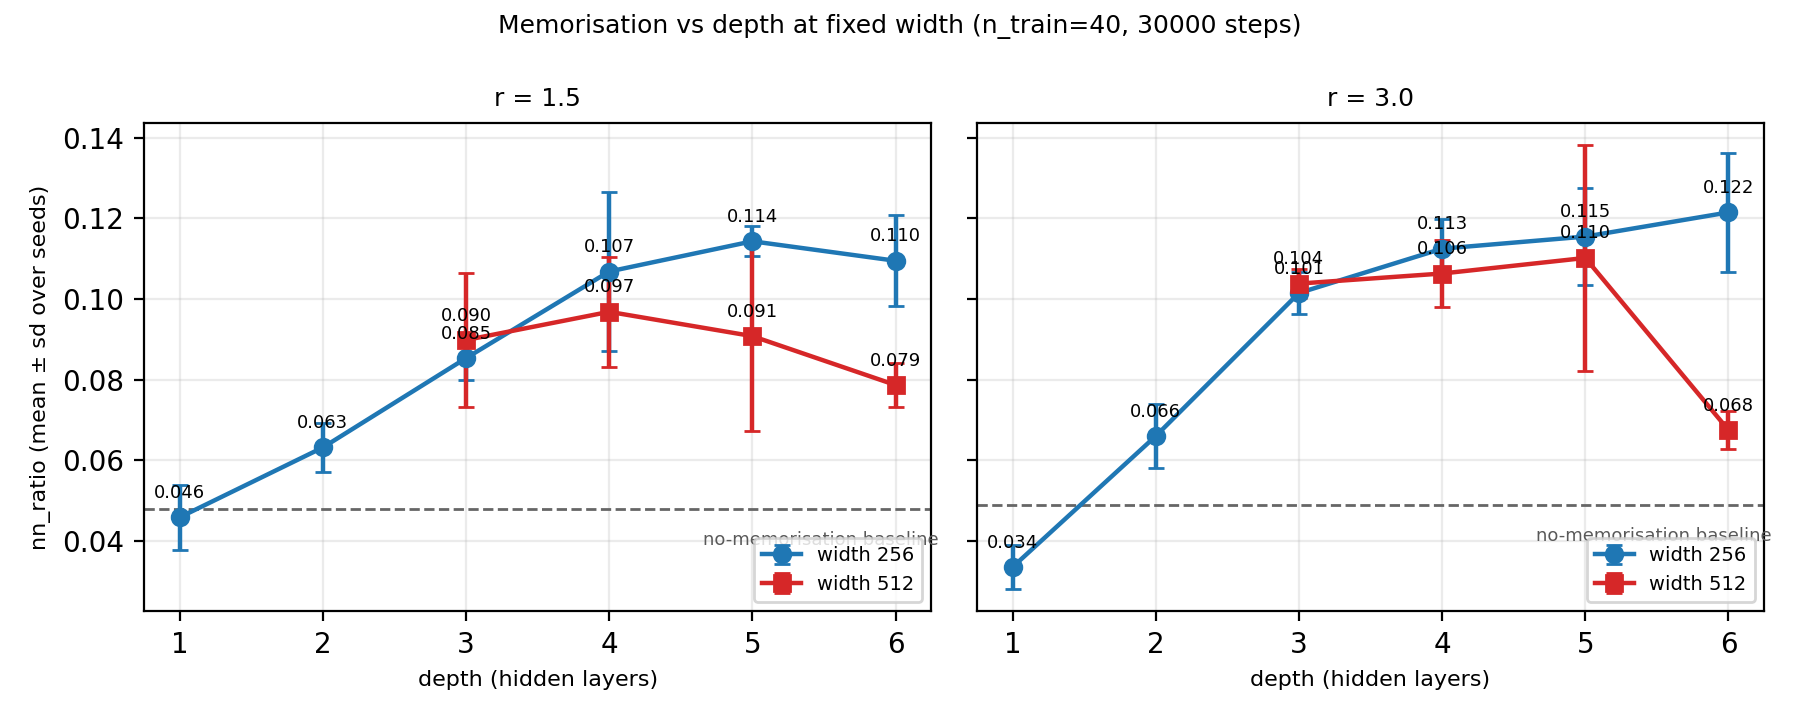
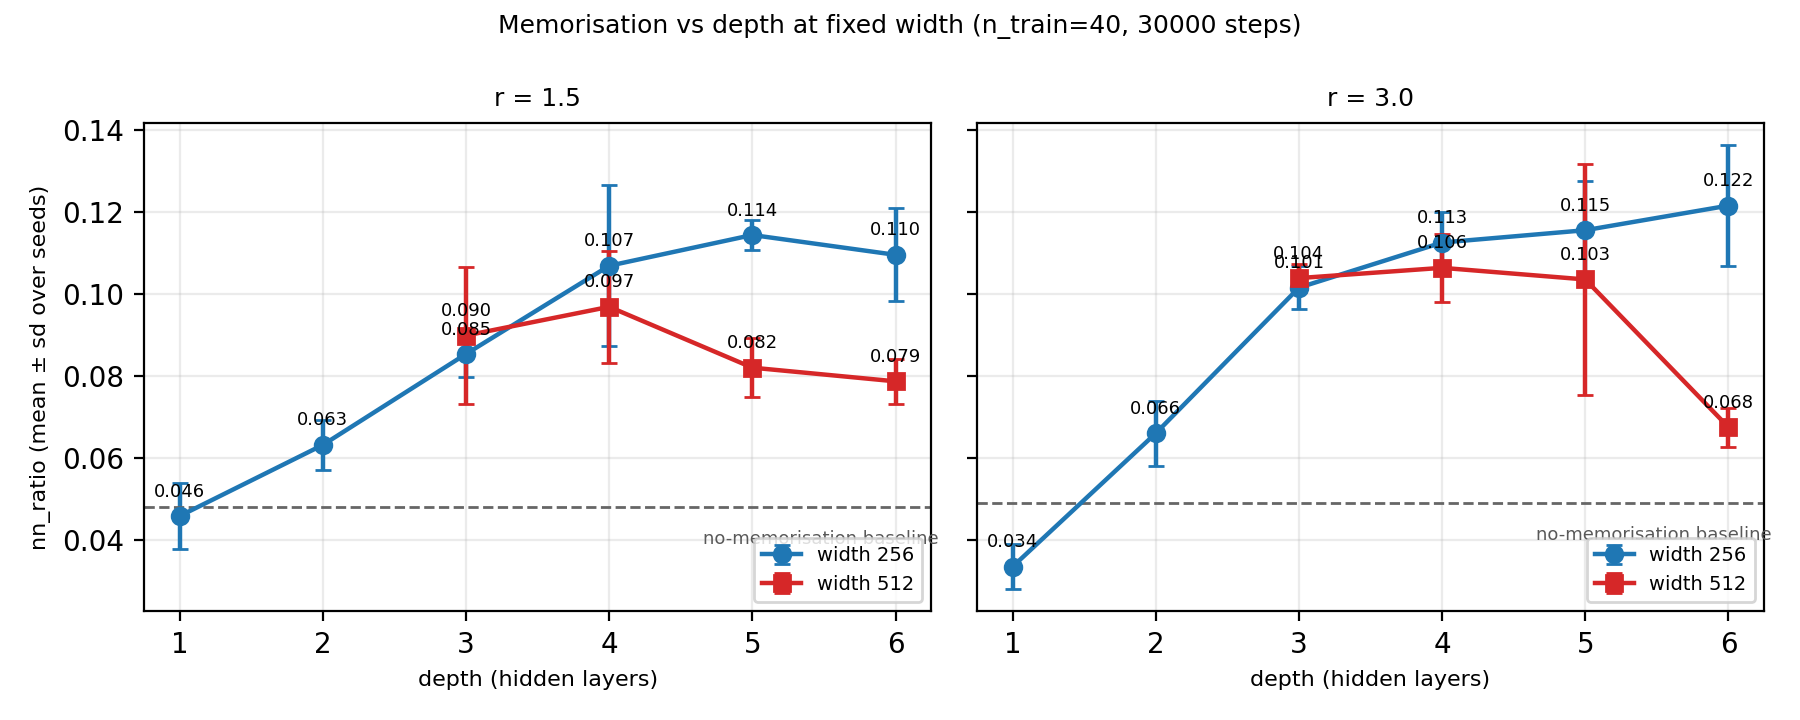
A: 深度 5/宽 512 改为种子 0-2（与 loss gap 逐点可比）
- table_depth_width.csv 与 figures/depth_width.png 里 (5,512) 只用 mainN40 的种子 0-2
- r=1.5: 0.090/0.097/0.082/0.079 (d3-d6)；r=3.0: 0.104/0.106/0.103/0.068
- 明确 d6 两指标同时回落；d5 只有 loss gap 下降，nn_ratio 在 r=3.0 持平

diff --git a/code/make_tables.py b/code/make_tables.py
@@ -111,8 +111,8 @@ def main():
     # 深度 × 宽度；宽度 512 的 depth5 用 mainN40 的 (5,512) 补齐
     dp = m[m.group == "depthsweep"][["radius", "depth", "width", "seed", "nn_ratio", "mmd",
                                      "mode_coverage"]]
-    fill = m[(m.tag == "mainN40") & (m.cap_idx == 4)][["radius", "depth", "width", "seed",
-                                                       "nn_ratio", "mmd", "mode_coverage"]]
+    fill = m[(m.tag == "mainN40") & (m.cap_idx == 4) & (m.seed <= 2)][
+        ["radius", "depth", "width", "seed", "nn_ratio", "mmd", "mode_coverage"]]
     fill = fill.assign(depth=5)
     dp = pd.concat([dp, fill], ignore_index=True).drop_duplicates(
         ["radius", "depth", "width", "seed"], keep="last")

diff --git a/code/make_depth_fig.py b/code/make_depth_fig.py
@@ -19,7 +19,8 @@ BASE = {1.5: 0.048, 3.0: 0.049}
 def collect(csv):
     m = pd.read_csv(csv)
     dp = m[m.group == "depthsweep"][["radius", "depth", "width", "seed", "nn_ratio"]].copy()
-    fill = m[(m.tag == "mainN40") & (m.cap_idx == 4)][["radius", "seed", "nn_ratio"]].copy()
+    fill = m[(m.tag == "mainN40") & (m.cap_idx == 4) & (m.seed <= 2)][
+        ["radius", "seed", "nn_ratio"]].copy()
     fill["depth"] = 5
     fill["width"] = 512
     dp = pd.concat([dp, fill], ignore_index=True)
